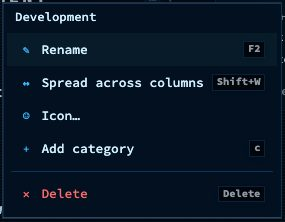
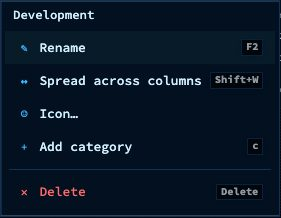
Manual: element shots, fixes from review

diff --git a/tests/manual-screenshots.spec.js b/tests/manual-screenshots.spec.js
@@ -204,6 +204,8 @@ function tidyDemoData(dir, patch) {
         websearch: { webSearchEngine: 'searxng', webSearchSearxngUrl: 'http://searx.lab.example' },
         // The server log recording from the start, so the boot is in it.
         serverlog: { serverLogEnabled: true },
+        // Quiet hours held, as 12-quiet-hours sets them through the panel.
+        quiet: { quietHoursEnabled: true },
     };
     for (const name of patches) {
         if (!settingsPatch[name]) continue;
@@ -1099,7 +1101,13 @@ test('08 tag cloud', async ({ page }) => {
     const cloud = page.locator('#tag-cloud-modal.is-open');
     await cloud.waitFor();
     await page.waitForTimeout(800);
-    await snap(page, cloud, '08-tag-cloud.jpg', { pad: 4 });
+    // The cloud opens with its keyboard cursor on the first tag, a box that
+    // reads as a selection in a still picture; the shot leaves it off.
+    await page.evaluate(() => document.querySelectorAll('#tag-cloud-modal .is-keyboard-focused')
+        .forEach((el) => el.classList.remove('is-keyboard-focused')));
+    // Its bottom edge is see-through; the last pixels show the page below.
+    const cloudBox = await cloud.boundingBox();
+    await snap(page, cloud, '08-tag-cloud.jpg', { pad: 0, maxHeight: Math.floor(cloudBox.height) - 4 });
 });
 
 const WEB_RESULTS = [
@@ -1133,7 +1141,7 @@ test('09 category menu', async ({ page }) => {
     const menu = page.locator('.bookmark-context-menu').first();
     await menu.waitFor({ state: 'visible' });
     await page.waitForTimeout(400);
-    await snap(page, menu, '09-category-menu.jpg', { pad: 2, keepFocus: true });
+    await snap(page, menu, '09-category-menu.jpg', { pad: 0, keepFocus: true });
 });
 
 test('10 tag suggestions', async ({ page }) => {
@@ -1170,7 +1178,7 @@ test('11 row menu', async ({ page }) => {
     const menu = page.locator('.config-bm-context-menu').first();
     await menu.waitFor({ state: 'visible' });
     await page.waitForTimeout(400);
-    await snap(page, menu, '11-row-menu.jpg', { pad: 2, keepFocus: true });
+    await snap(page, menu, '11-row-menu.jpg', { pad: 0, keepFocus: true });
 });
 
 test('11 pages and categories', async ({ page }) => {
@@ -1250,12 +1258,14 @@ test('12 maintenance and quiet hours', async ({ page }) => {
 test('13 inbox row', async ({ page }) => {
     await prepare(page);
     await openInbox(page);
+    // A row carries no buttons of its own: its actions are in its menu (and
+    // the side panel). The crop is the whole row with the menu it opened.
     const item = page.locator('.inbox-item', { hasText: 'Field notes on quokkas' }).first();
     await item.locator('.inbox-item-title').click({ button: 'right' });
     const menu = page.locator('.bookmark-context-menu').first();
     await menu.waitFor({ state: 'visible' });
     await page.waitForTimeout(400);
-    await snap(page, [item.locator('.inbox-item-check'), item.locator('.inbox-item-title'), menu], '13-inbox-row.jpg', { pad: 4, keepFocus: true });
+    await snap(page, [item, menu], '13-inbox-row.jpg', { pad: 4, keepFocus: true });
 });
 
 test('14 container row', async ({ page }) => {
@@ -1331,20 +1341,23 @@ test('16 theme browser parts', async ({ page }) => {
     }
 });
 
-test('17 find settings and only changed', async ({ page }) => {
-    await prepare(page);
-    await openConfig(page, 'appearance');
-    const head = page.locator('.config-view > .config-view-head').first();
-    const headBox = await head.boundingBox();
-    // Down to the head's own edge: the tabs start right under it.
-    await snap(page, head, '17-only-changed.jpg', { pad: 6, maxHeight: Math.floor(headBox.height) + 6 });
-    await page.keyboard.press('ControlOrMeta+Shift+K');
-    const finder = page.locator('#app-modal.show .config-settings-jump-modal');
-    await finder.waitFor();
-    await finder.locator('input').first().click();
-    await page.keyboard.type('quiet', { delay: 60 });
-    await page.waitForTimeout(800);
-    await snap(page, finder, '17-find-settings.jpg', { pad: 4, keepFocus: true });
+test.describe('quiet hours on', () => {
+    test.use({ dataPatch: 'quiet' });
+    test('17 find settings and only changed', async ({ page }) => {
+        await prepare(page);
+        await openConfig(page, 'appearance');
+        const head = page.locator('.config-view > .config-view-head').first();
+        const headBox = await head.boundingBox();
+        // Down to the head's own edge: the tabs start right under it.
+        await snap(page, head, '17-only-changed.jpg', { pad: 6, maxHeight: Math.floor(headBox.height) + 6 });
+        await page.keyboard.press('ControlOrMeta+Shift+K');
+        const finder = page.locator('#app-modal.show .config-settings-jump-modal');
+        await finder.waitFor();
+        await finder.locator('input').first().click();
+        await page.keyboard.type('quiet', { delay: 60 });
+        await page.waitForTimeout(800);
+        await snap(page, finder, '17-find-settings.jpg', { pad: 4, keepFocus: true });
+    });
 });
 
 test('19 trash', async ({ page }) => {

diff --git a/MANUAL.md b/MANUAL.md
@@ -864,7 +864,7 @@ The **★** button in the bottom-right corner opens the release notes. It is lef
 
 ### 🗂 The grid
 
-<img src="screenshots/manual.md/04-category-header.jpg" alt="A category header: the // mark, an icon and the name, then the ⋯ sort menu, the count of 3 bookmarks, the fold arrow and a + for a new category" width="364" align="right">
+<img src="screenshots/manual.md/04-category-header.jpg" alt="A category header: the // mark, an icon and the name, then the ⋯ sort menu, the count of 3 bookmarks, the fold arrow and a + for a new category" width="364" align="left">
 
 Categories and widgets stand in columns — as many as **Columns per row** allows and the window has room for, and one on a phone held upright. Each category header shows `//`, its icon and name, a count, and chips for sorting (manual, **A–Z**, **Recent**), a **+** to add a category and a **⋯** menu. Click the header to fold the category. A spread category shows **↔ N** with the number of columns it takes. Smart collections (*Today*, *Recently opened*, …) and custom collections appear as groups among your categories.
 
@@ -901,7 +901,7 @@ Hovering a bookmark — or pressing **`Shift + V`** on the selected row — open
 2. **What it says** — image, description, publisher, author and date where the page declares them, your note and tags. A bookmark that is a video — YouTube, Vimeo, Dailymotion, or a file that ends in `.mp4` — carries a small **▶** on the corner of its icon (beside the name when icons are off), and the card opens on the thumbnail with a play button over it.
 3. **What you know about it** — last check and ping, uptime, certificate expiry, the Fresh count, opens and last opened, shortcut and location.
 
-<img src="screenshots/manual.md/04-preview-card.jpg" alt="The link preview card of a bookmark: picture, description, a tag, when it was last opened, its shortcut and where it lives" width="408" align="right">
+<img src="screenshots/manual.md/04-preview-card.jpg" alt="The link preview card of a bookmark: picture, description, a tag, when it was last opened, its shortcut and where it lives" width="408" align="left">
 
 A row with nothing to say is left out. **Config → Appearance → Rows → Link preview cards** offers **Off**, **On hover** (default) and **Keyboard only**, a hover delay, and a checklist of rows — the player is the **Video player** row in that list. `Shift + V` works in every mode and keeps the card open with **Copy**, **Refresh** and **Edit**.
 
@@ -980,7 +980,7 @@ This same form, titled **Promote bookmark**, is how an Unsorted bookmark from th
 
 ### 5.3 Paste a URL (`Ctrl + V`)
 
-With no field active, paste a URL on the dashboard. A dialog offers **Save to Inbox** (`1`) or **Add bookmark** (`2`). Set a fixed answer under **Config → Inbox → Collecting → Paste destination** — *Ask each time*, *Always add bookmark* or *Always save to Inbox*.
+With no field active, paste a URL on the dashboard. A dialog offers **Add bookmark** (`1` or `b`) or **Save to Inbox** (`2` or `i`). Set a fixed answer under **Config → Inbox → Collecting → Paste destination** — *Ask each time*, *Always add bookmark* or *Always save to Inbox*.
 
 <p align="center"><img src="screenshots/manual.md/05-paste-prompt.jpg" alt="The Save this link dialog after pasting an address: the address, the choices Add bookmark and Save to Inbox with their number keys, Remember my choice and Cancel" width="408"></p>
 <p align="center"><sub>Pasting an address on the dashboard asks where it goes: the full form, or the inbox.</sub></p>
@@ -1436,15 +1436,14 @@ Page names are unique. Each row in Structure → Pages shows how many bookmarks 
 
 ### 9.2 Categories
 
+<img src="screenshots/manual.md/09-category-menu.jpg" alt="The right-click menu on a category header: Rename, Spread across columns, Icon, Add category and Delete, with their keys" width="281" align="right">
+
 - **Create** — the **+** in a category header or **`Shift + N`** (on the page you are on), `:category new`, **New category…** in the bookmark form, or **Structure → Categories**.
 - **Rename** — `F2`, a long press or double-click on the header, the right-click menu, or Structure → Categories.
 - **Icon** — right-click the header → **Icon…** and type an emoji.
 - **Reorder** — drag the `//` in the title, `Alt + ←/→` on the header, or Structure → Categories.
 - **Delete** — `Delete` on the header, the right-click menu, or Structure → Categories. The bookmarks are kept and lose their category; the category goes to the trash.
 - **Duplicate** — on the row in Structure → Categories, with its width, icon and sort, and optionally its bookmarks.
-
-<p align="center"><img src="screenshots/manual.md/09-category-menu.jpg" alt="The right-click menu on the Development category header: Rename, Spread across columns, Icon, Add category and Delete, with their keys" width="285"></p>
-<p align="center"><sub>Right-click a category header for its menu.</sub></p>
 
 A category you just created stays visible even with *hide empty categories* on, until you leave the page.
 
@@ -1567,7 +1566,7 @@ A file is at most 2 MB.
 - `t` on a selected bookmark filters by its tag.
 - `tag:work` in search narrows results without changing the dashboard.
 
-<p align="center"><img src="screenshots/manual.md/08-tag-cloud.jpg" alt="The tag cloud: every tag in use, the most used ones largest, and the total of 21 tags" width="520"></p>
+<p align="center"><img src="screenshots/manual.md/08-tag-cloud.jpg" alt="The tag cloud: every tag in use, the most used ones largest, and the total of 21 tags" width="512"></p>
 <p align="center"><sub>The tag cloud (<kbd>/</kbd>): the more a tag is used, the larger it is.</sub></p>
 
 <a id="103-managing-tags"></a>
@@ -1660,6 +1659,8 @@ A bookmark that is a container's web UI carries a small **cube** after its title
 
 ### 11.3 The side panel
 
+<img src="screenshots/manual.md/11-side-panel.jpg" alt="A bookmark's side panel on Details: its head with score, Open, Edit and Re-check, the Details, Health and Usage tabs, the preview card and the edit section open" width="384" align="right">
+
 Focusing a row opens the side panel: **Details**, **Health** and **Usage**, switched with **`1`/`2`/`3`** or **`[`/`]`**, or **`i`** to open or close the panel itself.
 
 - **Details** edits the bookmark in place — name, URL, page, category, tags (with autocomplete and suggestions), shortcut, note, pin, availability checking and interval. Lists and checkboxes save on change, text fields when you leave them; `Escape` puts the old value back. It also offers **Open** and **Edit in dialog** (`Shift + E`). An **Unsorted** bookmark shows a primary **Promote** button here instead of a page and category ([§11.11](#1111-unsorted-and-promote)).
@@ -1675,9 +1676,6 @@ Closed with the mouse — **×** or a click beside it — the row lets go as wel
 
 On a narrow window the rail becomes a drawer and the side panel a sheet. What you filtered to is kept in the address, so a filtered list is a link.
 
-<p align="center"><img src="screenshots/manual.md/11-side-panel.jpg" alt="The side panel of a bookmark with the Details, Health and Usage tabs and the edit section open" width="384"></p>
-<p align="center"><sub>A bookmark's side panel, on Details.</sub></p>
-
 <a id="114-selecting-several"></a>
 
 ### 11.4 Selecting several
@@ -1690,7 +1688,7 @@ Tick rows (`x` / `X` for the whole page shown, or **Select all** in the ⋯ menu
 
 The row menu (right-click, `Shift + F10`, or `m`) offers open, copy URL, share, **Promote…** (only on an Unsorted bookmark), edit, checking, health details, **Health charts…** (the bookmark's health in large, [§11.9](#119-a-bookmarks-health-in-large)), **Merge…** on a duplicate, filters (only this category, page or tag), and delete.
 
-<p align="center"><img src="screenshots/manual.md/11-row-menu.jpg" alt="The row menu on the Maps bookmark: open in new tab, copy URL, copy name and URL, QR code, edit, checking, health details, health charts, three filters and delete" width="260"></p>
+<p align="center"><img src="screenshots/manual.md/11-row-menu.jpg" alt="The row menu on the Maps bookmark: open in new tab, copy URL, copy name and URL, QR code, edit, checking, health details, health charts, three filters and delete" width="256"></p>
 <p align="center"><sub>The row menu (right-click, <kbd>m</kbd> or <kbd>Shift</kbd> + <kbd>F10</kbd>).</sub></p>
 
 <a id="116-keys"></a>
@@ -1888,12 +1886,11 @@ Set the mode in the bookmark form, the Bookmarks view's side panel, the right-cl
 | **Quiet hours** and **Reminders** | See [§12.5](#125-maintenance-windows) |
 | **Browser notifications** | See [§12.4](#124-alerts) |
 
+<img src="screenshots/manual.md/12-health-tab.jpg" alt="The Health tab of a monitored bookmark: the score, the checking mode and interval, a bar for each of the last checks at 100 % with the response time, and the sections Why, Score breakdown, Checking, Monitor & history and Expectations" width="384" align="right">
+
 **What a check records.** A failure stores its cause — DNS, timeout, refused, TLS, redirect, content or an HTTP status. A failed check is tried again five seconds later and only counts if that fails too. A page that asks *are you a robot*, a rate limit or anything else unclear reads as **unknown**, not broken. Certificates are read from every HTTPS check.
 
 **How long it has been failing.** The first failure of a run is kept, and the next check that passes clears it. A failing row says *failing for 3 weeks*, and hovering shows the day it first failed; a monitored bookmark says how long it has been down instead. When the site only refused our checks (a 403, a bot check), the row says *not answering us for…* rather than calling the page dead. The side panel's Health tab (*Broken · 3w*), the link preview card, the **Rot report** ([§11.10](#1110-rot-report)) and the Statistics figure *longest-standing break* ([§18](#18-statistics)) draw on the same date.
-
-<p align="center"><img src="screenshots/manual.md/12-health-tab.jpg" alt="A monitored bookmark's side panel on its Health tab: the score, the checking mode and interval, a bar for each of the last checks at 100 % with the response time, and the sections Why, Score breakdown, Checking, Monitor & history and Expectations" width="384"></p>
-<p align="center"><sub>The Health tab of a monitored bookmark, its last checks drawn as bars.</sub></p>
 
 **Services behind a sign-in.** On a bookmark's Health tab, **Expected response** offers:
 
@@ -2110,8 +2107,8 @@ Open it with **`Shift + I`**, the inbox icon or `:inbox`. The icon's tooltip say
 | `R` | Reload |
 | `Esc` | Clear the selection, then back to the queue, then back to the bookmarks |
 
-<p align="center"><img src="screenshots/manual.md/13-inbox-row.jpg" alt="An inbox row with its right-click menu: open in new tab, copy URL, copy name and URL, QR code, promote, keep, mark read, snooze, note, tags, copy link and delete" width="629"></p>
-<p align="center"><sub>Right-click an inbox row for everything you can do with it.</sub></p>
+<p align="center"><img src="screenshots/manual.md/13-inbox-row.jpg" alt="The first inbox row, outlined, with its right-click menu: open in new tab, copy URL, copy name and URL, QR code, promote, keep, mark read, snooze, note, tags, copy link and delete" width="860"></p>
+<p align="center"><sub>An inbox row carries no buttons of its own: its actions are in its right-click menu, and in its side panel.</sub></p>
 
 - **Read** — a link is unread until opened or marked read. `u`, or the right-click menu, marks it unread again.
 - **Snooze** — three hours, tomorrow, the weekend, next week, or a date (waking at 09:00). A snoozed link is left out of every count; a line under the list says how many are asleep. **Wake now** brings one back.
@@ -2243,6 +2240,8 @@ The bookmark's own side panel says it back: **Details → Address → Runs in** 
 
 ### 14.3 The side panel
 
+<img src="screenshots/manual.md/14-side-panel.jpg" alt="A container's side panel on Overview, with the Overview, Resources, Logs and What's new tabs and the Details section open" width="384" align="right">
+
 Selecting a container opens its side panel, with four tabs. Its head shows the container's web UI address under the name, tagged **Custom** when it is one you set; the tag opens the Custom section. A click beside the panel closes it, one on another row moves it there (**Config → Containers → Close on a click beside it**).
 
 The **✎** on the icon in the panel's head chooses what the container shows: **Choose app icon…** opens the icon search, **Use letter** keeps the plain letter, and **Automatic** goes back to the icon the sets matched. The choice is kept per container name, so it survives an update. nextDash's own container has no pencil.
@@ -2251,9 +2250,6 @@ The **✎** on the icon in the panel's head chooses what the container shows: **
 - **Resources** — CPU, memory, size, **Network** (in and out) and **Disk I/O** (read and written), with four charts under them: CPU, memory, network and disk I/O over the last hour — one cursor across the four, a tooltip, a drag to zoom (double-click or `0` back), and the arrow keys to walk the points with the value read out. Network and disk are rates between two samples, so they show a dash until there are two. nextDash samples the running containers every 30 seconds and keeps the samples in memory, so a restart starts the charts again. **Config → Containers → Keep the last hour of CPU and memory** switches the sampling and the charts off.
 - **Logs** — the last lines, with **Refresh** and **Open logs window** ([§14.8](#148-the-logs-window)).
 - **What’s new** — the release notes behind an available update.
-
-<p align="center"><img src="screenshots/manual.md/14-side-panel.jpg" alt="The side panel of a container with Overview, Resources, Logs and What's new tabs and the Details section open" width="384"></p>
-<p align="center"><sub>A container's side panel, on Overview.</sub></p>
 
 <a id="144-keys"></a>
 
@@ -2402,10 +2398,10 @@ When a container **stops unexpectedly**, **keeps restarting** (three crashes in 
 
 They go where Health's downtime alerts go: the alert webhook under **Behavior → Status & alerts → Downtime alerts** (with its presets), and browser notifications with **Notify when a container stops, keeps restarting or turns unhealthy** switched on. **Config → Containers → Notifications** switches them off. Mute a single container from its row menu, its side panel's ⋯ menu, or `m`; **Muted containers** lists them and says where notices go. Hidden containers and nextDash's own raise nothing.
 
-<p align="center"><img src="screenshots/manual.md/14-notice.jpg" alt="Config, Containers, Alerts: Notify about containers and Also when one uses too much CPU or memory ticked, with CPU above 90 %, Memory above 90 % and For at least 10 minutes" width="860"></p>
-<p align="center"><sub>Container notices are switched under Config → Containers → Alerts.</sub></p>
-
 **Running hot.** **Also when one uses too much CPU or memory** (on by default) sends a notice when a container stays above a line for a while — **CPU above** 90 % of every core, **Memory above** 90 % of its limit (the host's memory when it has none), **For at least** 10 minutes, each adjustable — and one when it is back under both. It reads the stats history, so it needs **Keep the last hour of CPU and memory** on. One notice per spell; the same mutes apply.
+
+<p align="center"><img src="screenshots/manual.md/14-notice.jpg" alt="Config, Containers, Alerts: Notify about containers and Also when one uses too much CPU or memory ticked, with CPU above 90 %, Memory above 90 % and For at least 10 minutes" width="860"></p>
+<p align="center"><sub>Config → Containers → Alerts: notices on, and the lines for running hot.</sub></p>
 
 **Automatic updates** send a notice when one went through, when one was rolled back and why, and when one could not be done.
 
@@ -2531,7 +2527,7 @@ Widgets are ordered with the categories under **Structure → Categories**, or d
 
 **RSS** — your server fetches each feed and caches it for 15 minutes. A headline shows the feed's summary on hover or focus. Rows past the row count fold into a **more** row. A feed that fails does not empty the tile.
 
-<img src="screenshots/manual.md/15-notes.jpg" alt="The Notes tile: a short checklist with two items ticked and struck through, and Edit and Open large" width="380" align="right">
+<img src="screenshots/manual.md/15-notes.jpg" alt="The Notes tile: a short checklist with two items ticked and struck through, and Edit and Open large" width="380" align="left">
 
 **Notes** — headings (`#` to `###`), bullet and numbered lists, quotes, tables, code blocks, **bold**, *italic*, `code` and links are drawn as such; a line that starts with `[ ]` is a checkbox, and ticking it on the tile saves at once. **Edit** opens a plain editor (`Ctrl/Cmd + Enter` saves, `Esc` cancels); typing `/` there offers commands: `/date`, `/time`, `/uuid`, `/upper`, `/lower`, `/title`, `/todo`, `/h1`, `/code` and `/table`. **Open large** shows the text beside a preview with a toolbar (heading, bold, italic, code, link, list, task, quote, table, and `/` for the commands). A tile drawn wide adds the length and how many tasks are done. **Config → Behavior → General → Notes widget → Notes are processed** chooses where the Markdown and the commands are worked out: **On the server** (the default) or **In the browser**, which needs no request while you type. If the server cannot be reached, the tile shows the plain text.
 
@@ -3685,7 +3681,7 @@ nextDash adapts to touch screens (a touch device without a hover pointer) rather
 
 | | Phone | Tablet and desktop |
 |---|---|---|
-| **Header** | Page switcher and destinations, folded to fit | Full header |
+| **Header** | The page name and a **← →** hint: swipe sideways to change page. The clock, the page tabs and the destinations drop away | Full header |
 | **Action buttons** | Search | As configured |
 | **Commands and finders** | The `:` and `?` tabs in the search panel | Buttons or keys |
 | **Tag filter** | `tag:` in search, or `:tag` | The tag cloud (`/`) |
